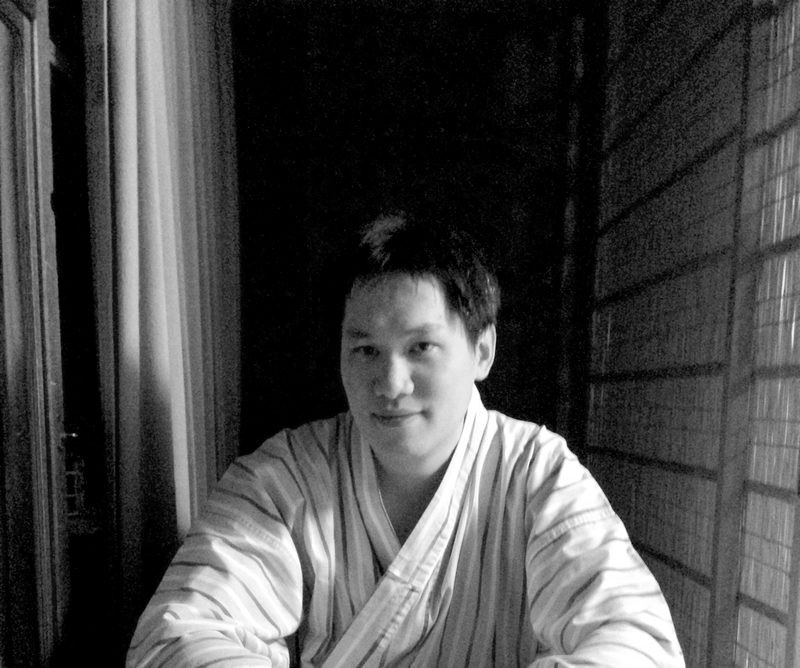
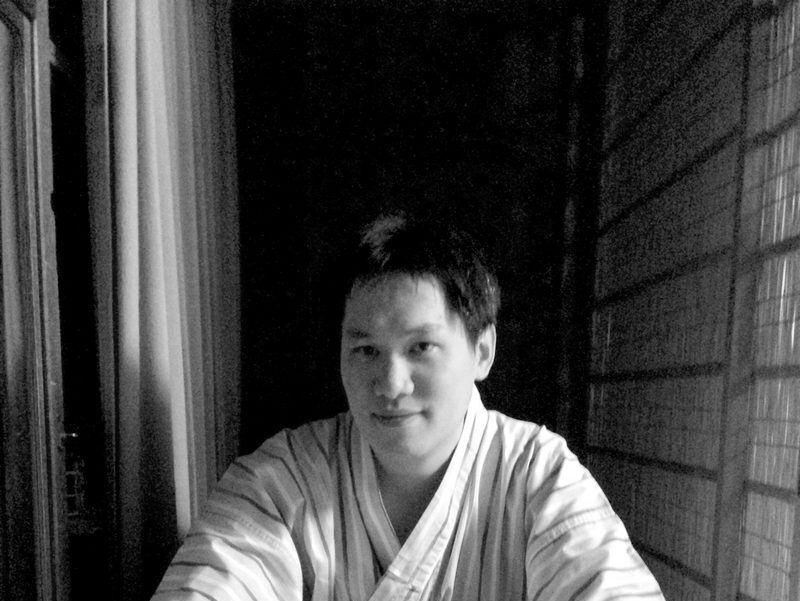
fix(cover): crop the bottom tenth off the cover photo

diff --git a/layouts/partials/sections/cover.html b/layouts/partials/sections/cover.html
@@ -48,7 +48,7 @@
     </p>
 
     {{ with $c.image }}
-    <figure class="riso cover__art" aria-hidden="true"><img src="{{ .x | relURL }}" srcset="{{ .x | relURL }} 800w, {{ ._2x | relURL }} 1137w" sizes="100vw" width="1137" height="950" alt="" loading="lazy"></figure>
+    <figure class="riso cover__art" aria-hidden="true"><img src="{{ .x | relURL }}" srcset="{{ .x | relURL }} 800w, {{ ._2x | relURL }} 1137w" sizes="100vw" width="1137" height="855" alt="" loading="lazy"></figure>
     {{ end }}
 
     <p class="cover__title">{{ partial "words.html" (dict "en" $c.storyEn "ja" $c.storyJa) }}</p>
